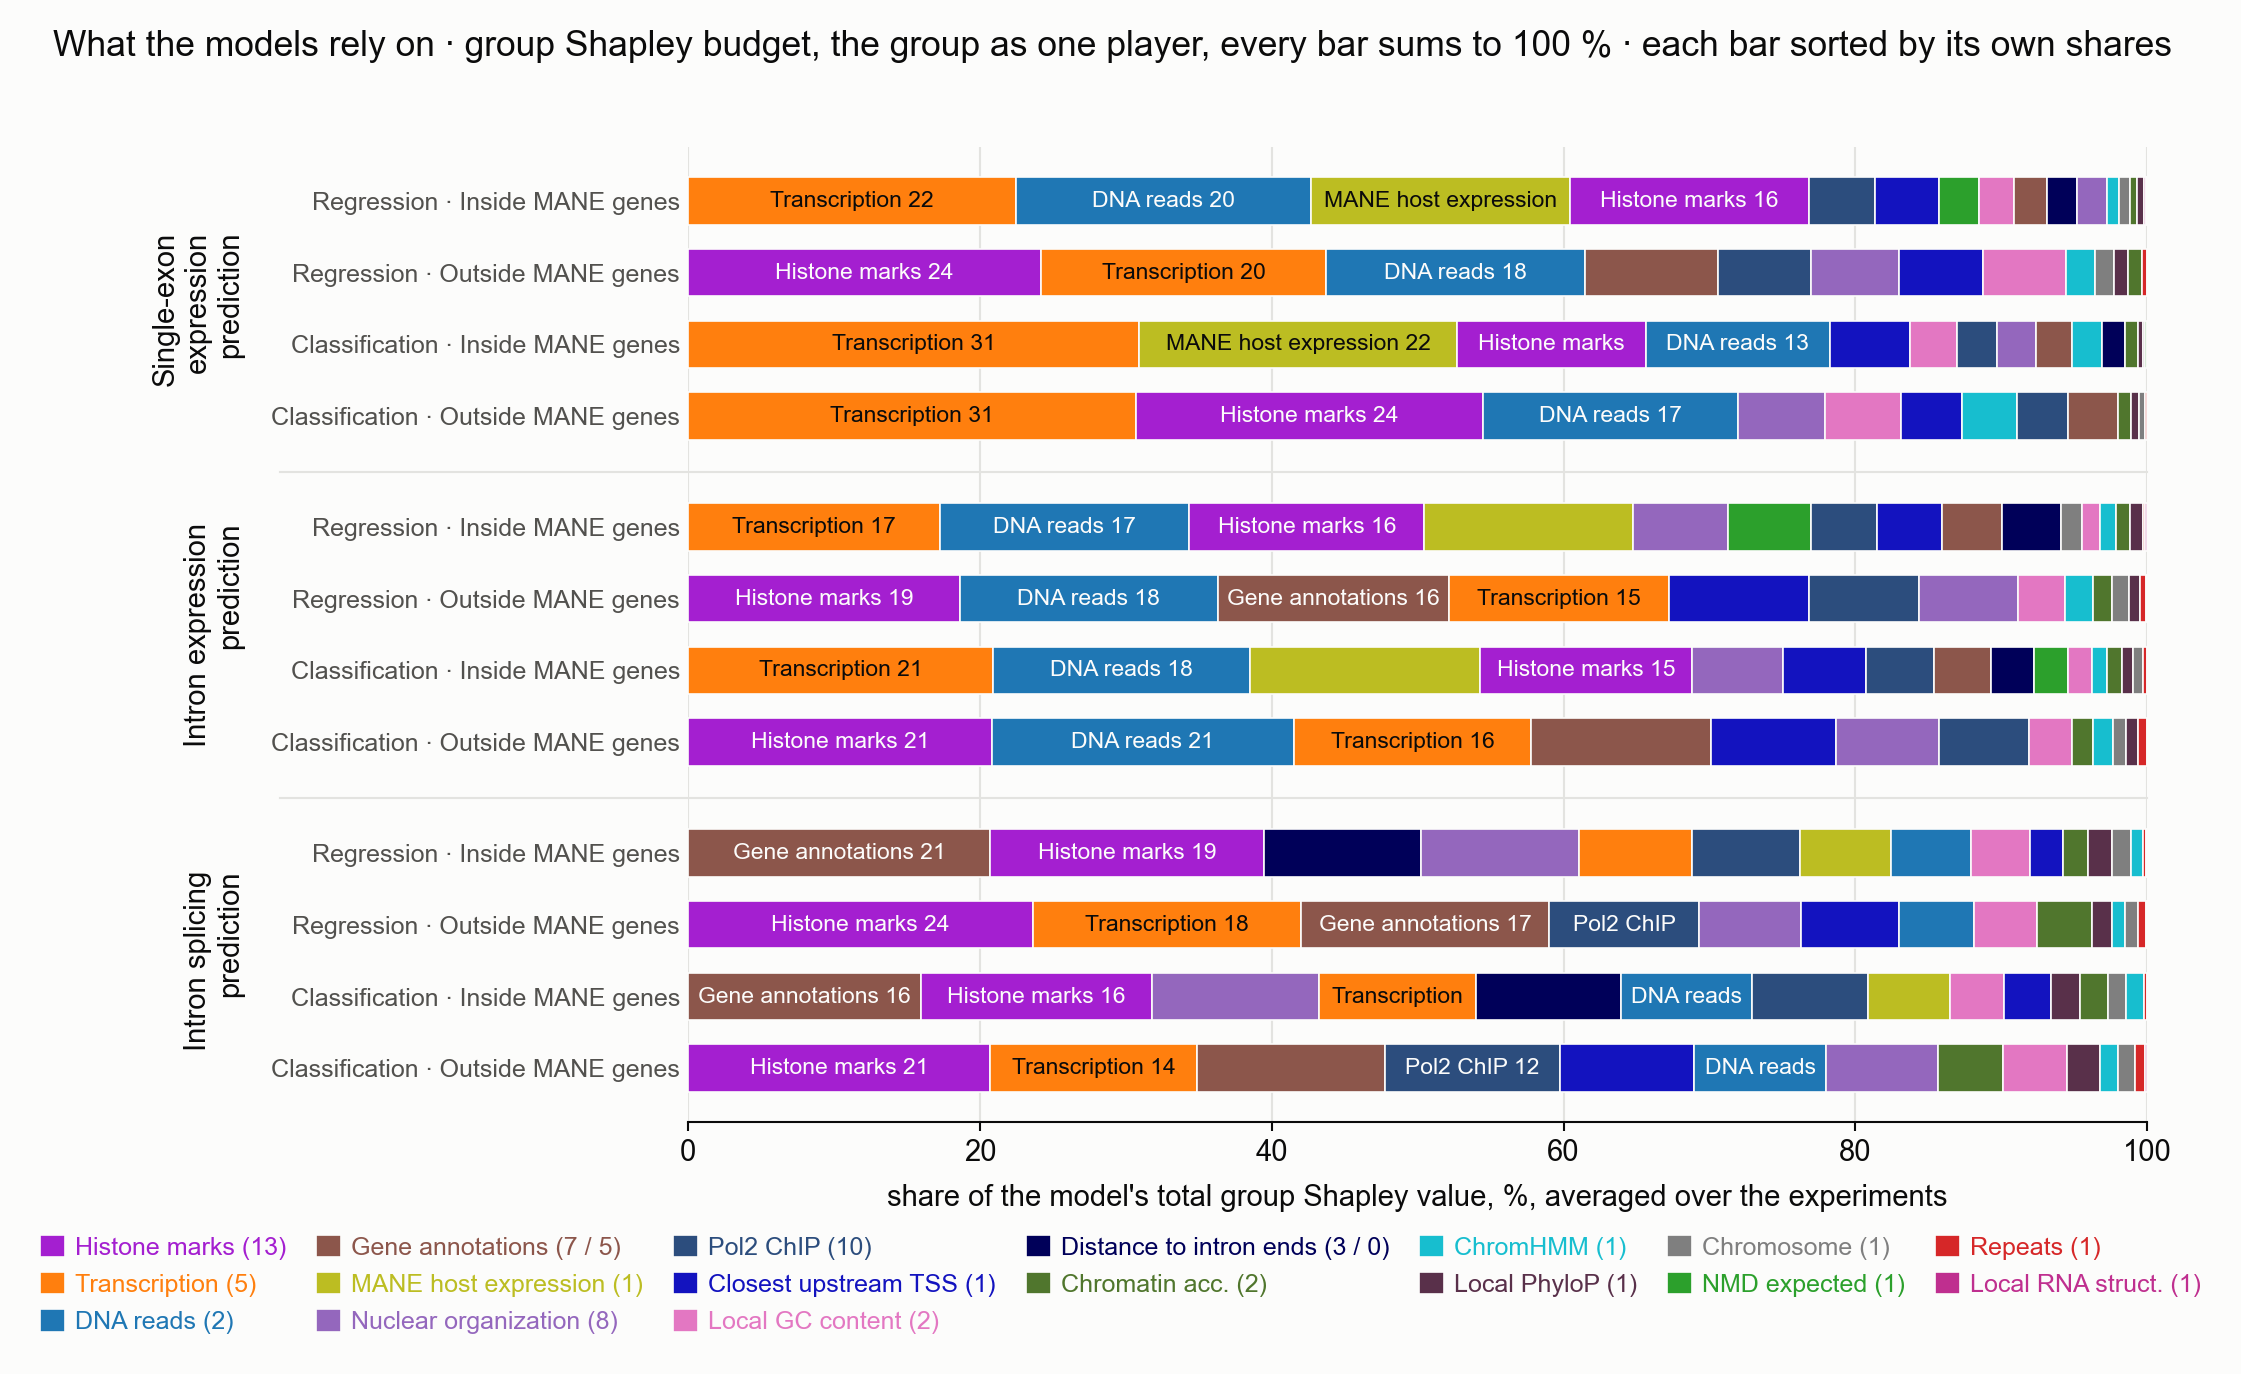
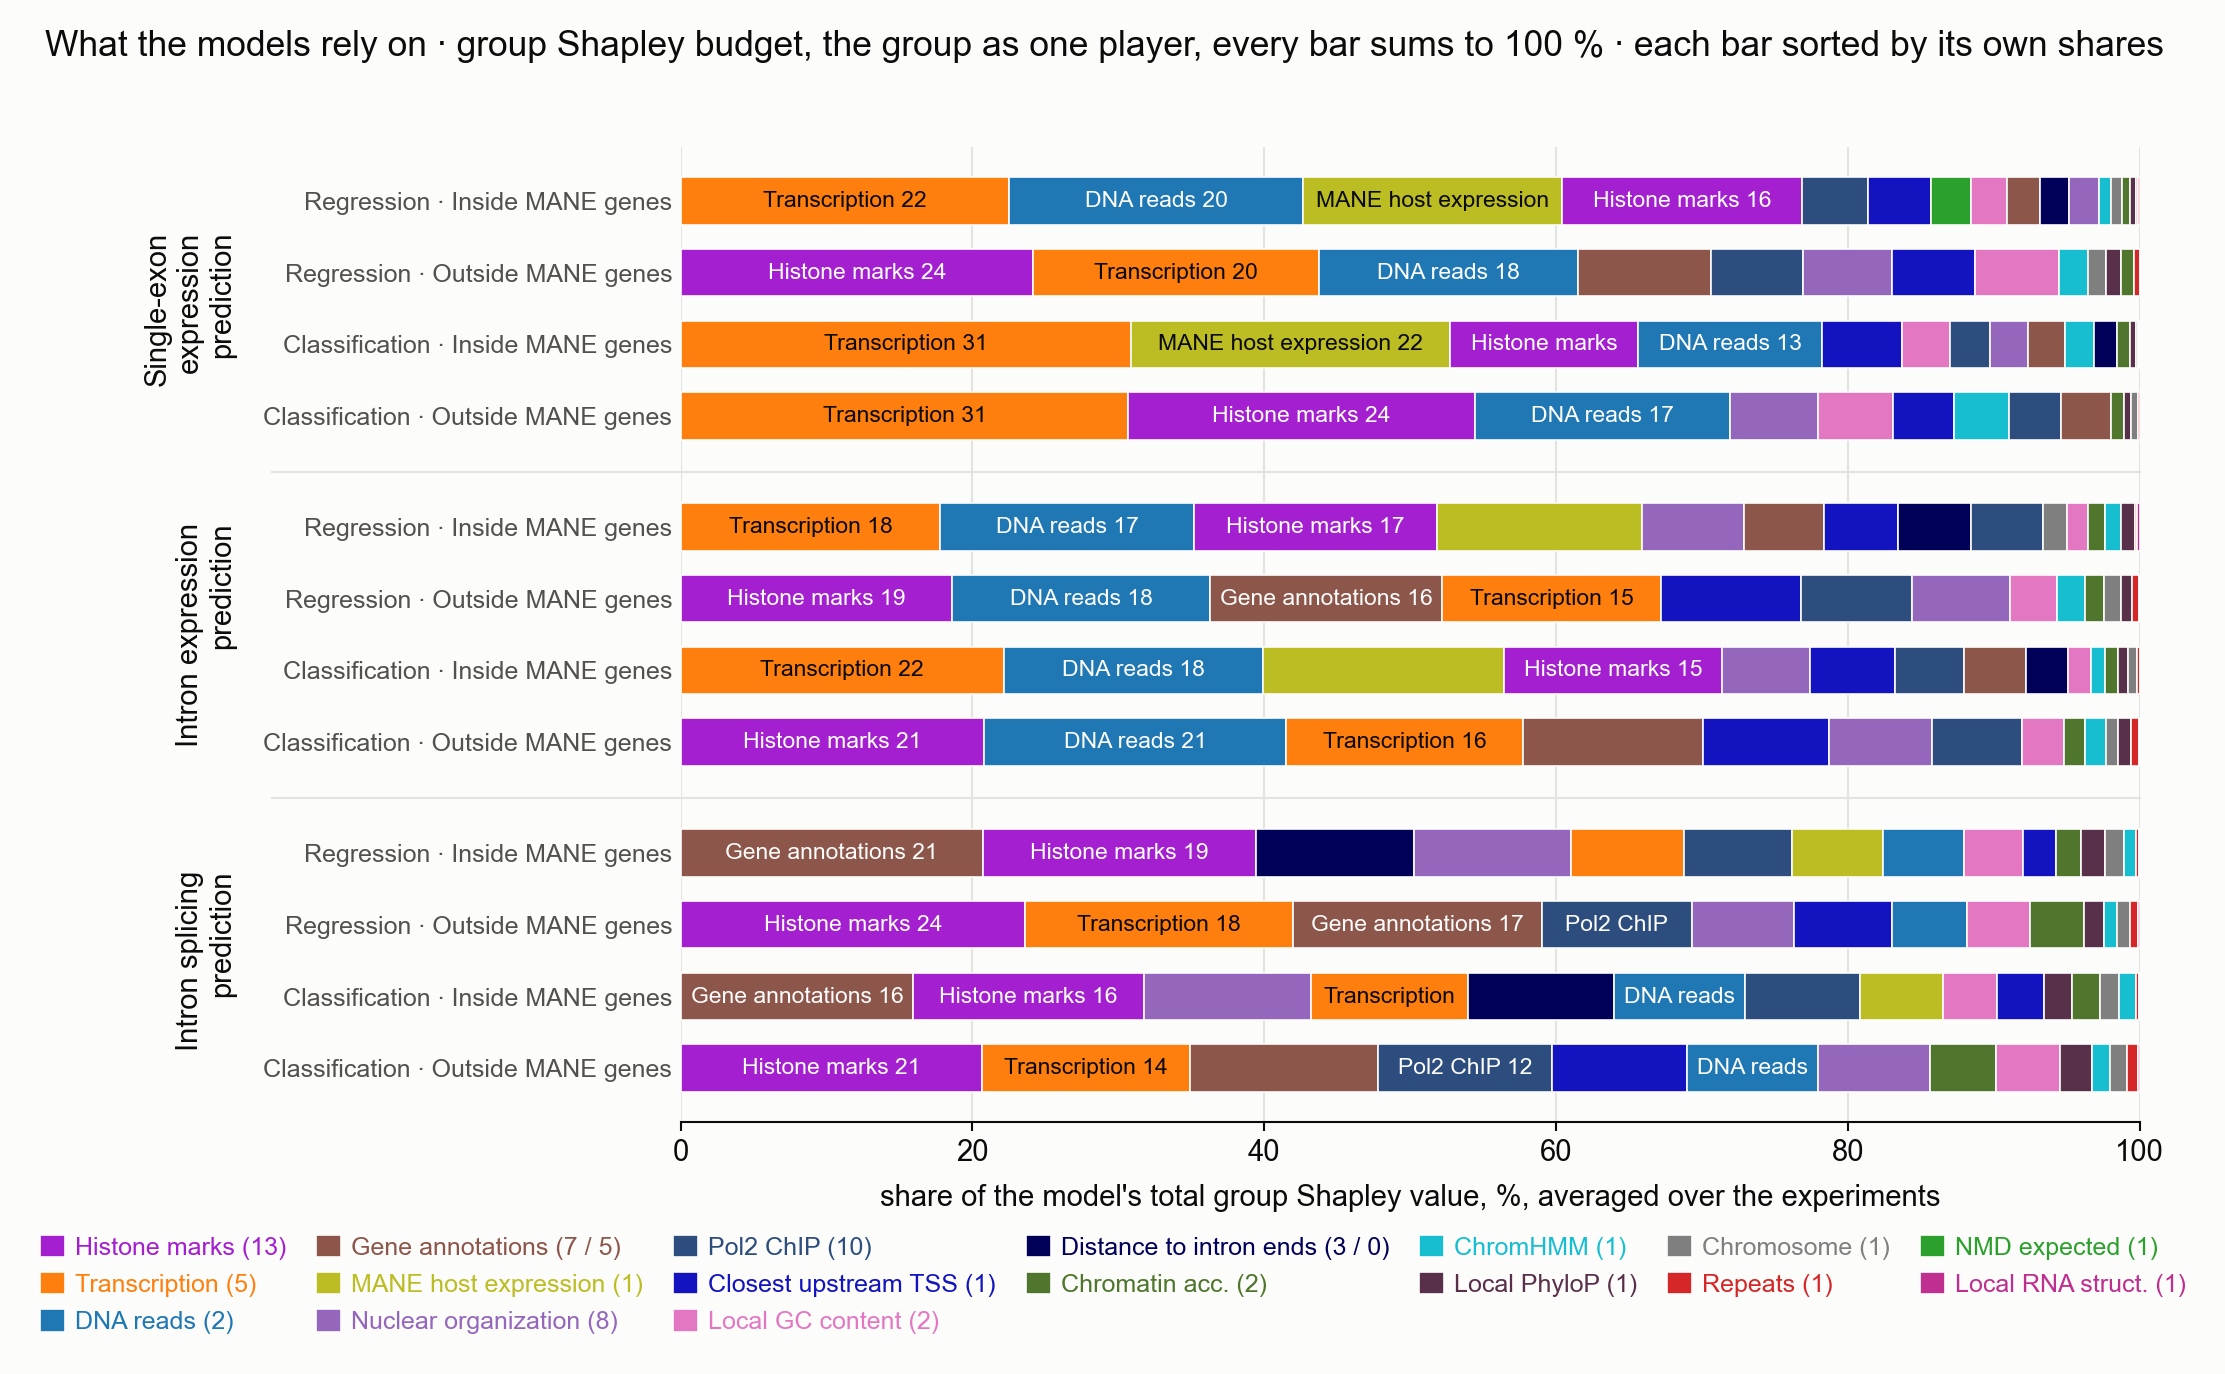
Group SHAP: drop NMD_expected from both intron datasets
NMD_expected was identical to "the integration is inside a CDS" for the
intron constructs, 100% of barcodes, so the nmd group measured CDS versus
UTR rather than anything about NMD. It is removed from intron_exp and
intron_splicing and kept only in single_combined.

intron_exp was retrained; intron_splicing came back bit-identical because
its SHAP had already excluded the feature. Of the 27 figures the plot
scripts draw, 12 changed and 5 of those are in the report.

Group counts are now 17 intragenic for single_combined and 16 for the two
intron datasets. Outside MANE genes all three stay at 14, because the
feature was already on the intergenic drop list.

Claude-Session: https://claude.ai/code/session_01BC5aU3kQjJLBibvxqmME1N

diff --git a/ML/Group_shap_analysis/SHAP_ANALYSIS.md b/ML/Group_shap_analysis/SHAP_ANALYSIS.md
@@ -7,12 +7,14 @@ of the single features in the group.
 
 Group SHAP values were calculated only for 200 barcodes with 50 background barcodes for each one because of high computational complexity.
 
-**UPD**: NMD was deleted from features for intron_splicig prediction
+**UPD**: `NMD_expected` was removed from the features of both intron datasets, `intron_exp` and
+`intron_splicing`. It stays only in `single_combined`.
 
 
 ## Which features are in which group
 
-There are **17 groups and 60 features**
+There are **17 groups and 60 features** in `single_combined`, and **16 groups and 59 features** in
+the two intron datasets, which no longer carry `NMD_expected`.
 
 | group | n | features |
 |---|---|---|
@@ -31,7 +33,7 @@ There are **17 groups and 60 features**
 | `conservation` | 1 | phyloP |
 | `icshape` | 1 | icSHAPE |
 | `mane_expression` | 1 | MANE_all_exp.norm.log10 |
-| `nmd` | 1 | NMD_expected |
+| `nmd` | 1 | NMD_expected. `single_combined` only |
 | `repeats` | 1 | RepeatGroup |
 
 ### What is dropped for the intergenic table
@@ -40,7 +42,8 @@ Outside a MANE gene these 9 features are removed:
 `DistToTSS`, `DistToTES`, `RelPos`, `MANElength`, `DistToIntron5`, `DistToIntron3`, `RelIntronPos`,
 `MANE_all_exp.norm.log10`, `NMD_expected`.
 
-Three groups disappear completely: `intron_annotations`, `mane_expression` and `nmd`. A fourth group,
+Three groups disappear completely: `intron_annotations`, `mane_expression` and `nmd`, and in the
+intron datasets only the first two, because `nmd` is already absent there. A fourth group,
 `gene_annotations`, shrinks from 7 features to 3.
 
 That leaves **14 groups and 51 features**.
@@ -135,10 +138,13 @@ are centred.
 
 ## The `nmd` feature is a marker of CDS, and must not be read as NMD
 
+This is why the feature was removed from both intron datasets, so the figures above no longer show
+an `nmd` group for them. The section stays because it is the reason for the removal.
+
 For the intron datasets `NMD_expected` is **identical to the statement that the integration is
 inside a CDS**.
-This gives the reading of section 3. The fact that `nmd` leads in `intron_splicing` intragenic says
-that the model tells an insertion into the coding part from an insertion into a UTR.
+In the earlier run `nmd` led in `intron_splicing` intragenic, which said that the model tells an
+insertion into the coding part from an insertion into a UTR, and not anything about NMD.
 
 ### How NMD was computed for the intron constructs
 
